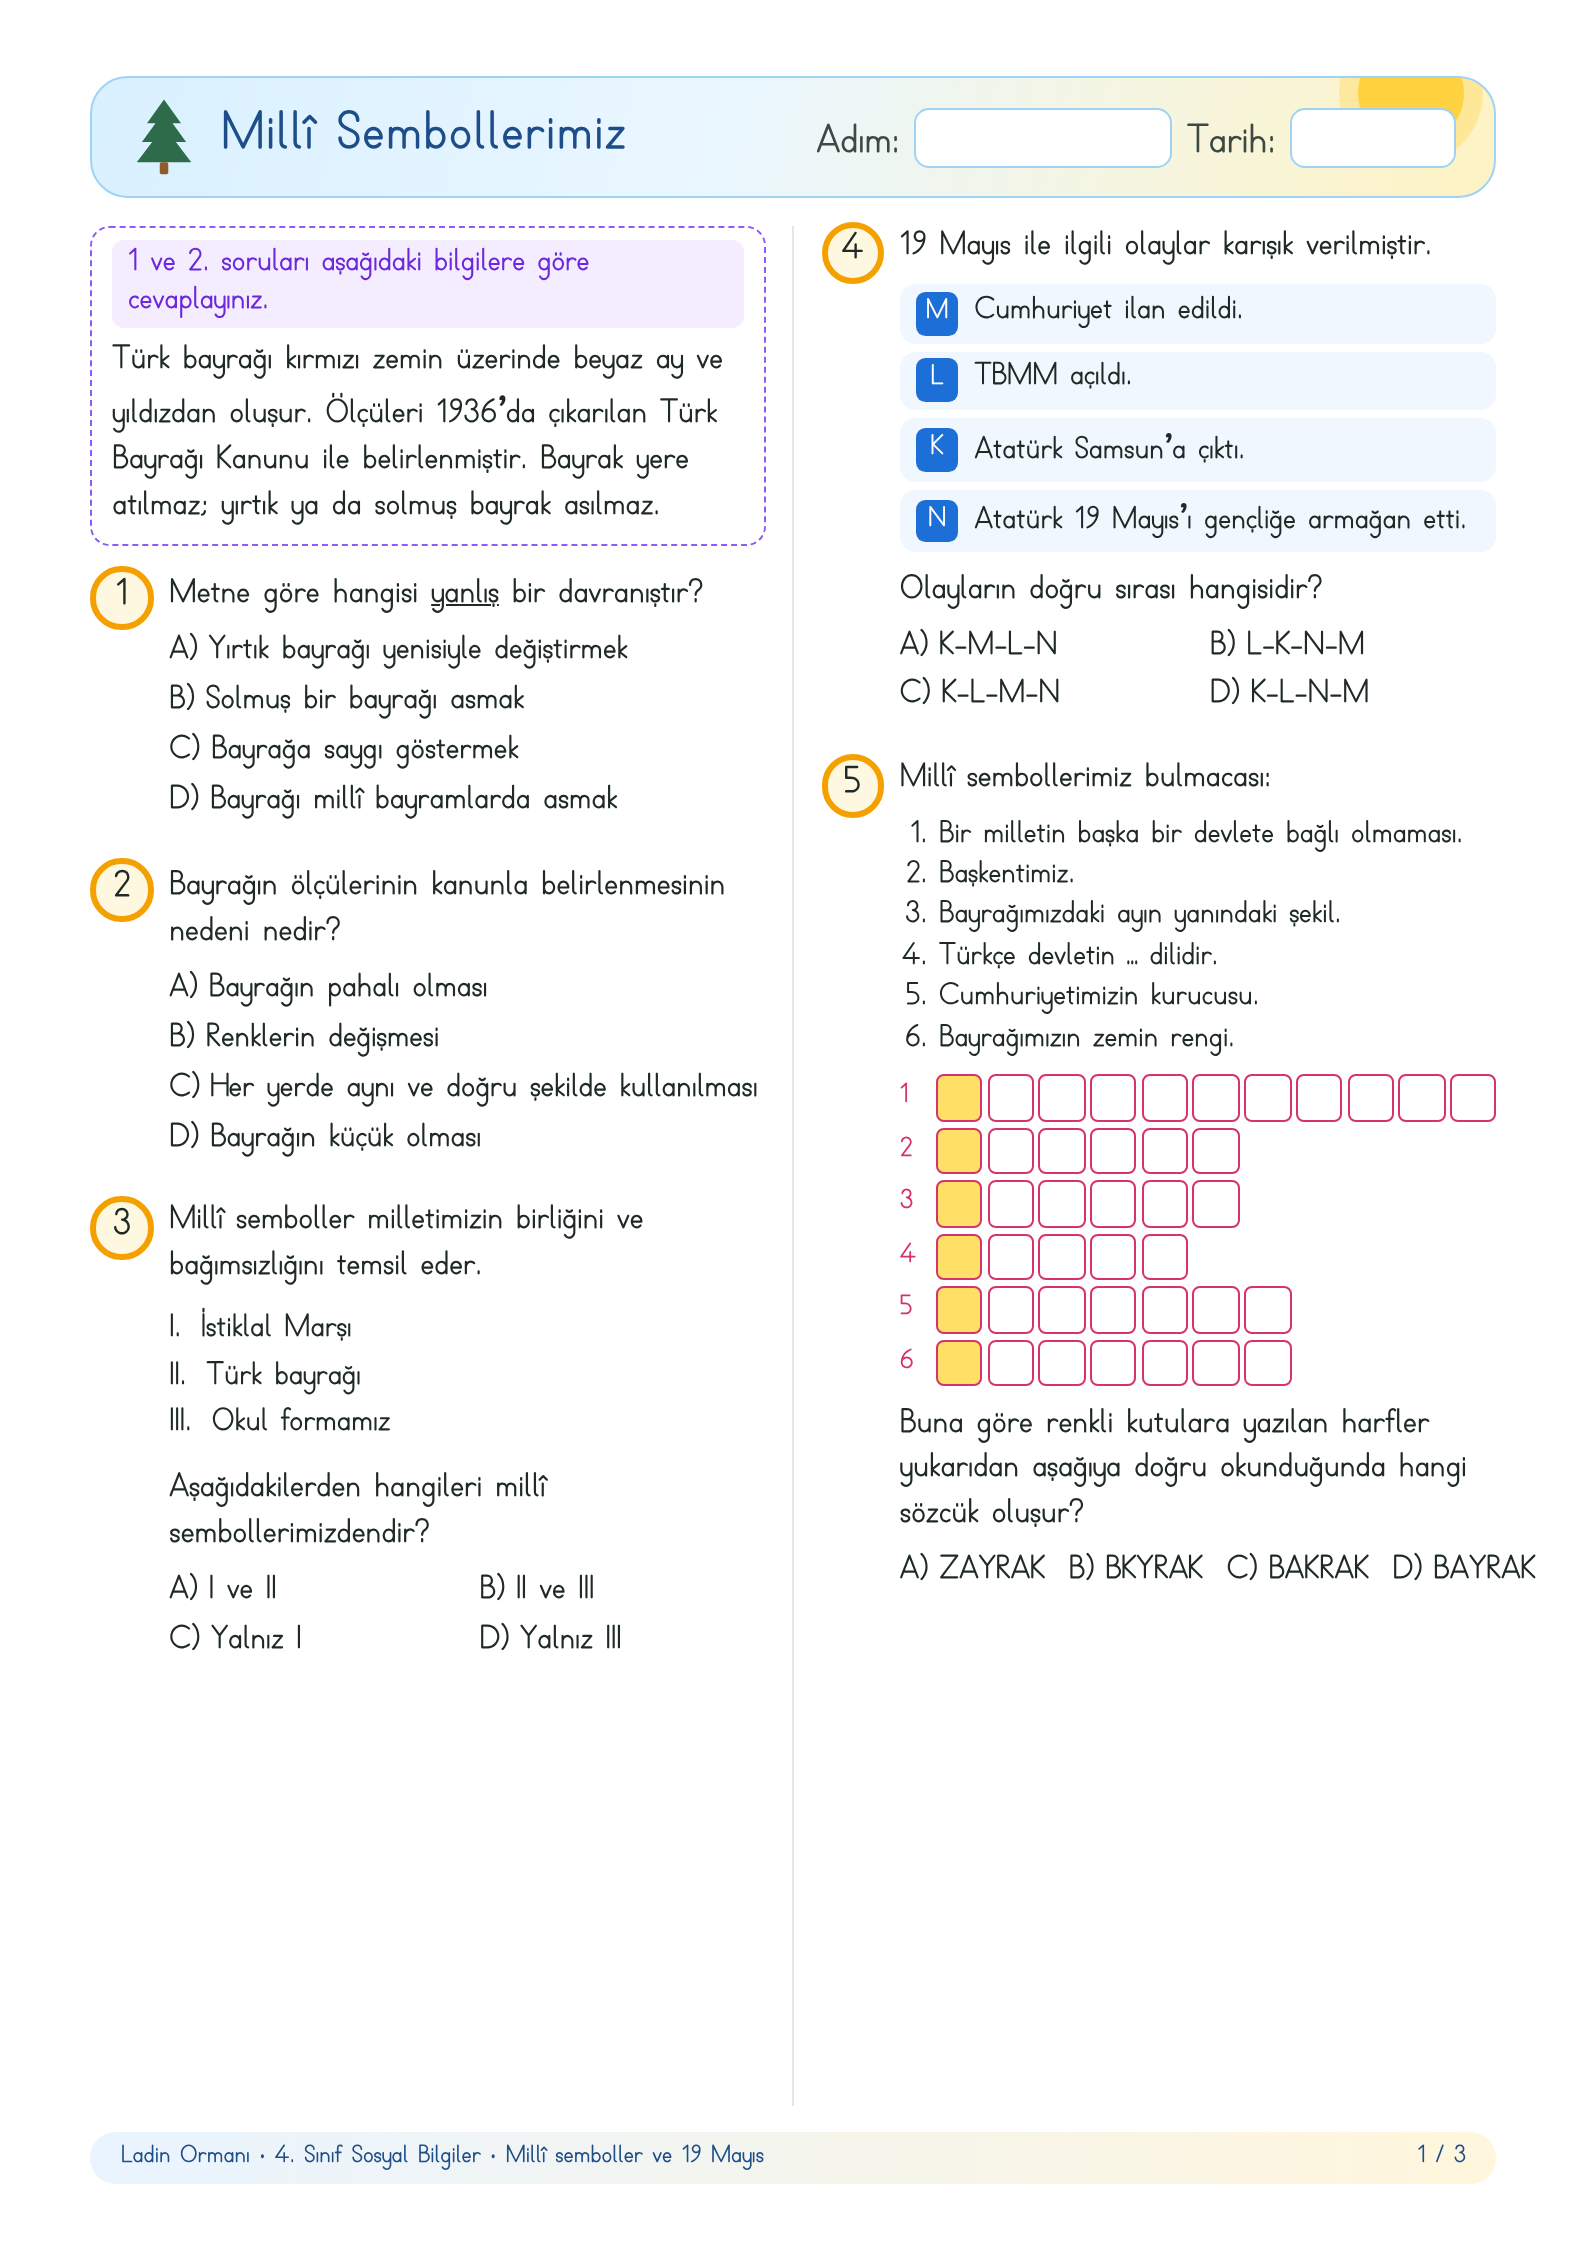
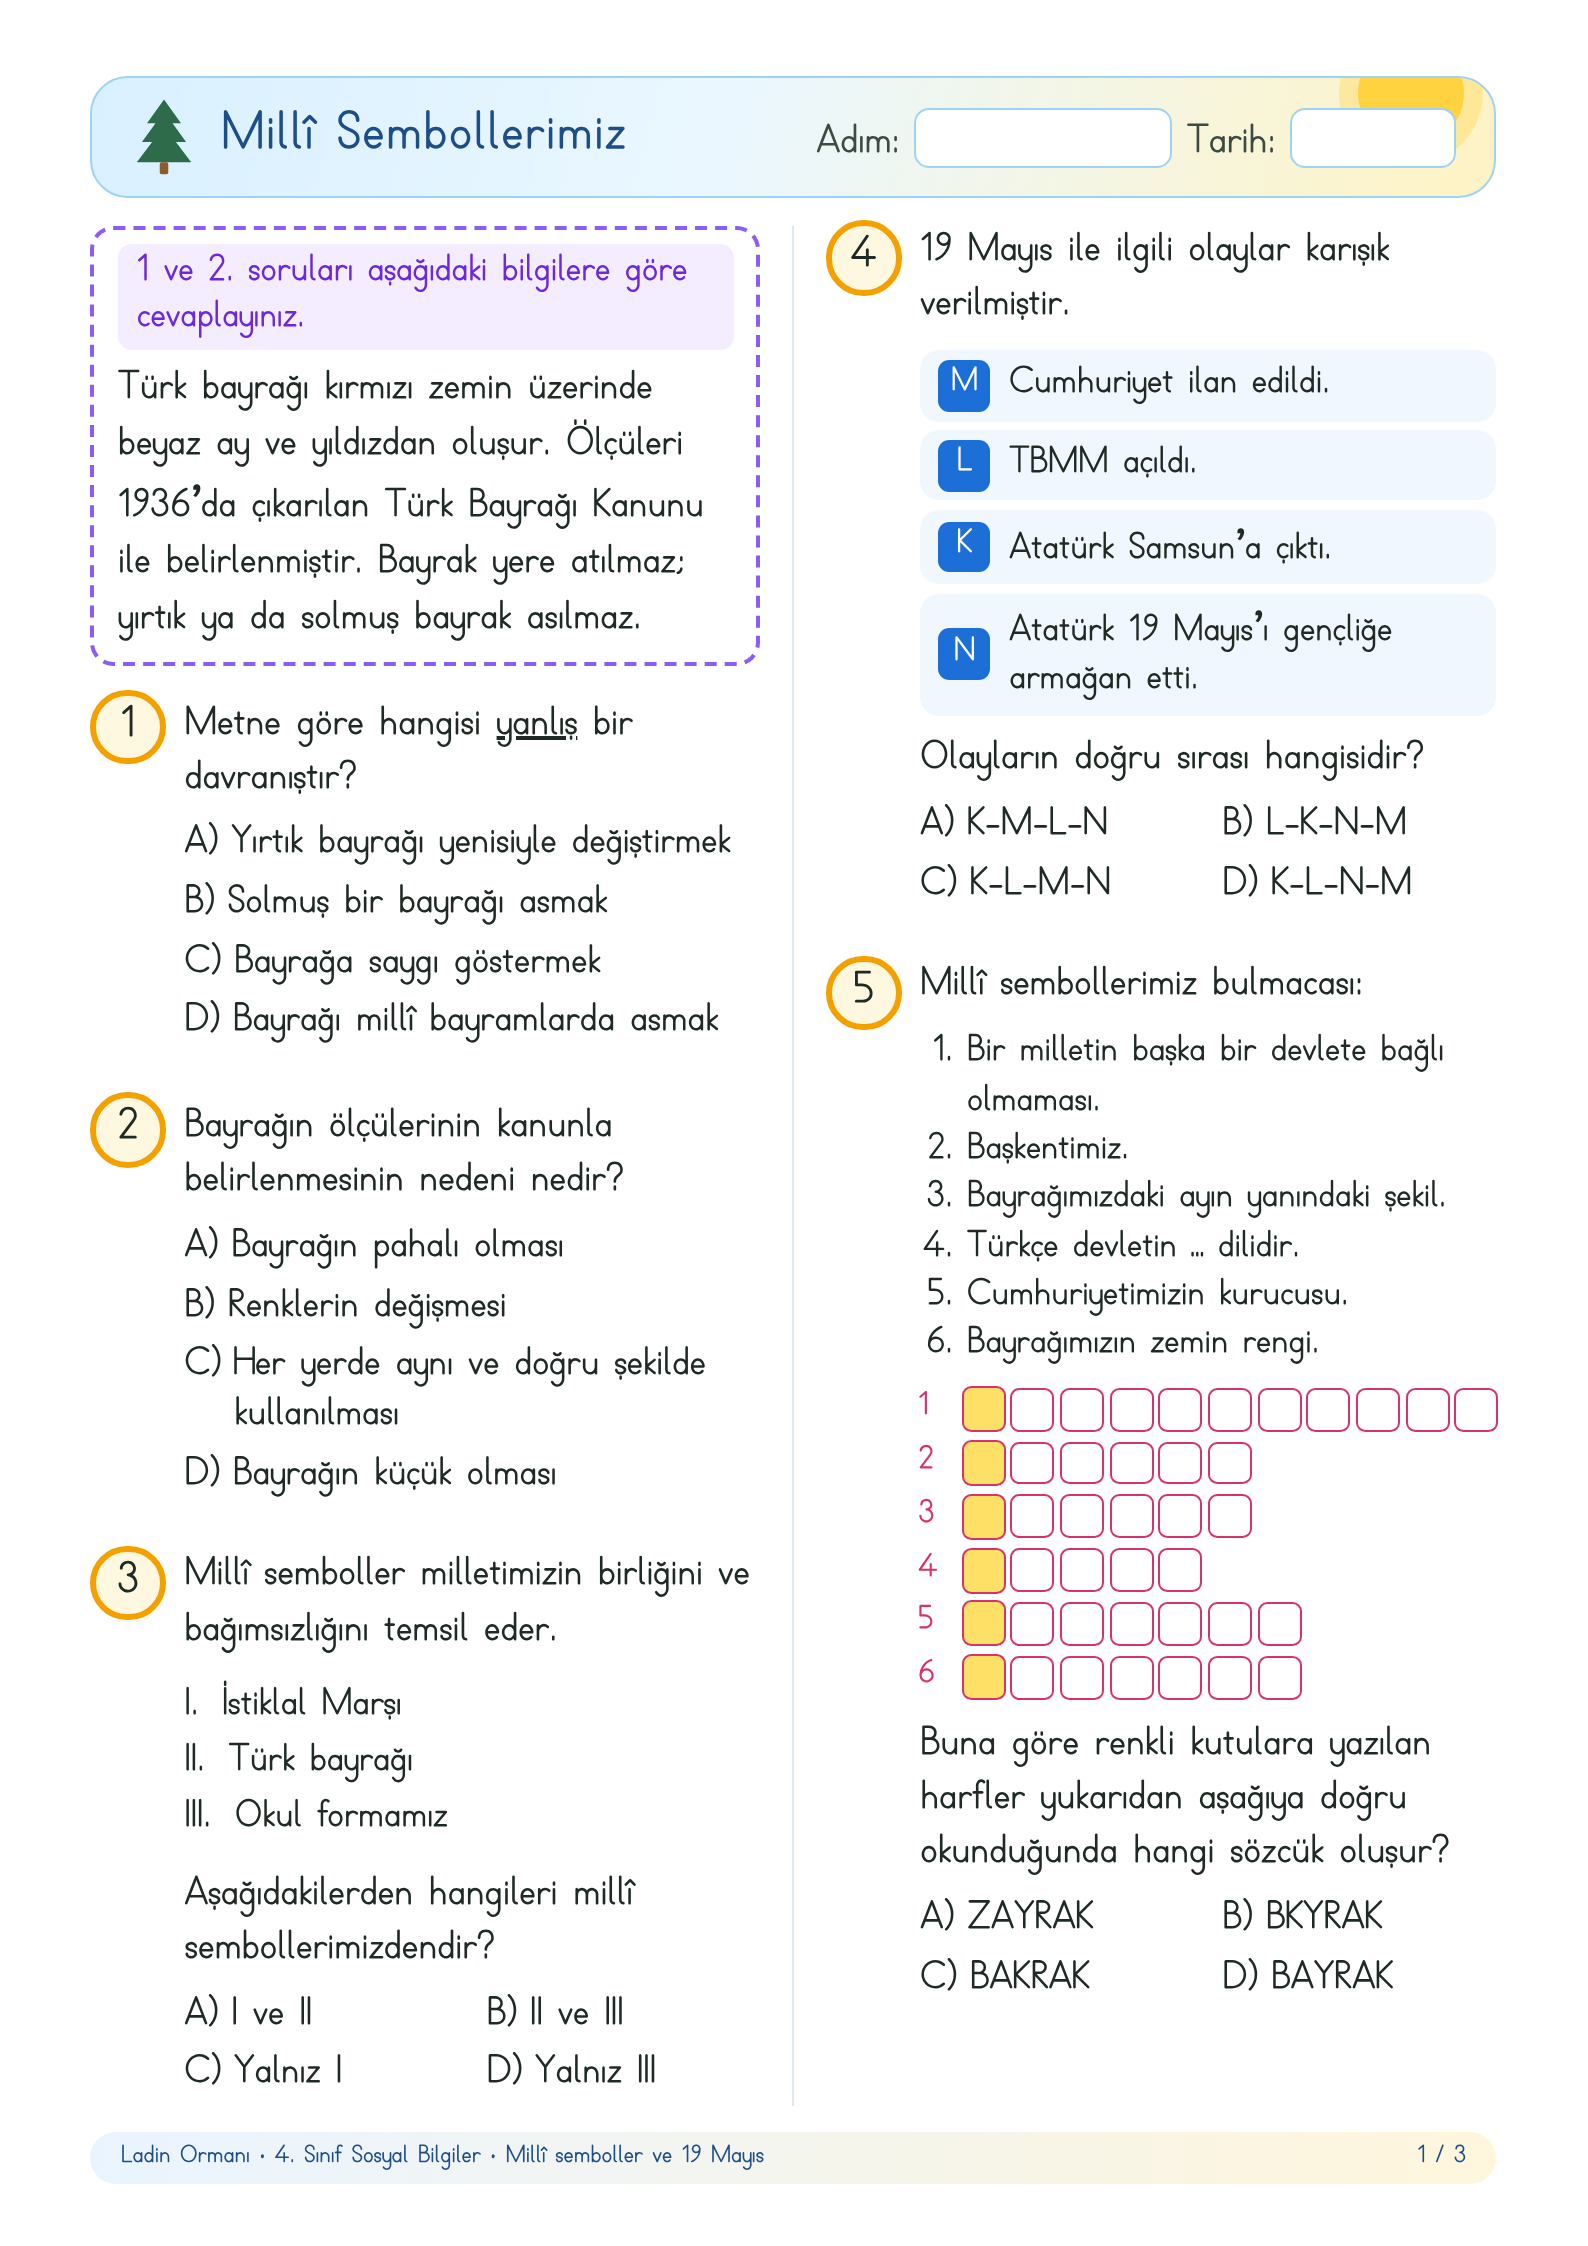
4. sınıf ara kayıt

diff --git a/kaynak/calisma-kagitlari/test4.js b/kaynak/calisma-kagitlari/test4.js
@@ -15,7 +15,7 @@ module.exports = ({ S }) => {
     const n = ++NO; ANAH.push(`${n}-${H[s.d]}`); TIP.push(o.tip || 'coktan');
     const duz = s.l.map(x => String(x).replace(/<[^>]+>/g, ''));
     const resimli = s.l.some(x => String(x).includes('<svg') || String(x).includes('<img') || String(x).includes('class="t4-av'));
-    const kolon = o.kolon || (resimli ? 2 : duz.every(x => x.length <= 6) ? 4 : duz.every(x => x.length <= 22) ? 2 : 1);
+    const kolon = o.kolon || (resimli ? 2 : duz.every(x => x.length <= 5) ? 4 : duz.every(x => x.length <= 22) ? 2 : 1);
     return `<div class="t4-s"><span class="t4-no">${n}</span><div class="t4-ic">${ic}<p class="t4-kok">${altCiz(kok)}</p><ol class="t4-sec k${kolon}">${s.l.map((x, i) => `<li><b>${H[i]})</b> <span>${x}</span></li>`).join('')}</ol></div></div>`;
   };
   // Senaryo parçaları
@@ -99,7 +99,7 @@ module.exports = ({ S }) => {
     const r = R(t), harf = 'ABCÇDEFGHIİKLMNOÖPRSŞTUÜVYZ'; const y = new Set();
     while (y.size < 3) { const d = dogru.split(''); const i = Math.floor(r() * d.length); d[i] = harf[Math.floor(r() * harf.length)]; const k = d.join(''); if (k !== dogru) y.add(k); }
     const en = Math.max(...ipuclari.map(x => x[1].length));
-    const kb = Math.min(6, (72 - en * .6) / en).toFixed(2); const izgara = `<div class="t4-bul" style="--kb:${kb}mm">${ipuclari.map(([, c], i) => `<div><b>${i + 1}</b>${[...Array(en)].map((_, j) => j < c.length ? `<i${j === sutun ? ' class="y"' : ''}></i>` : '<i class="bos"></i>').join('')}</div>`).join('')}</div>`;
+    const kb = Math.min(6, (58 - en * .6) / en).toFixed(2); const izgara = `<div class="t4-bul" style="--kb:${kb}mm">${ipuclari.map(([, c], i) => `<div><b>${i + 1}</b>${[...Array(en)].map((_, j) => j < c.length ? `<i${j === sutun ? ' class="y"' : ''}></i>` : '<i class="bos"></i>').join('')}</div>`).join('')}</div>`;
     return soru(p(giris) + `<ol class="t4-ipucu">${ipuclari.map(([s]) => `<li>${s}</li>`).join('')}</ol>` + izgara, 'Buna göre renkli kutulara yazılan harfler yukarıdan aşağıya doğru okunduğunda hangi sözcük oluşur?', sec(dogru, [...y], t), { tip: 'bulmaca' });
   };
   // Tek seçenekli klasik soru (senaryo + soru + seçenekler)
